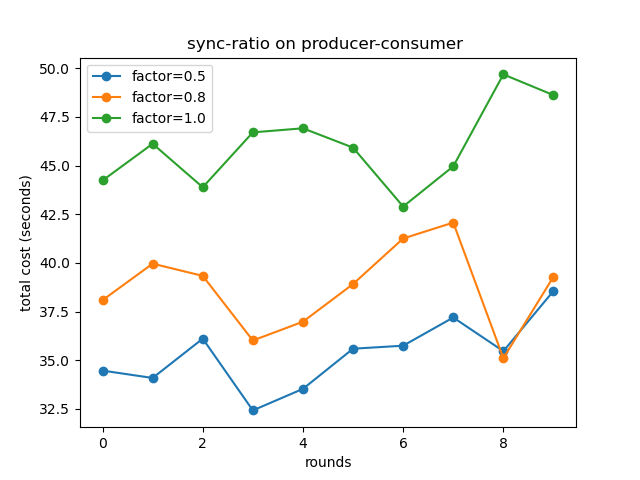
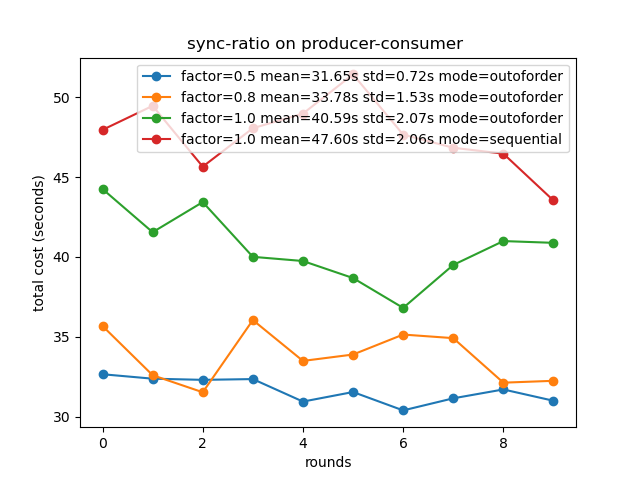
添加 README.md 文件，描述项目概述和使用说明

diff --git a/async_demo.py b/async_demo.py
@@ -116,7 +116,7 @@ class AsyncScheduler:
         comsum_n = int(self.init_size*self.factor)
         while self.running:
             # print("[消费者]：消费者开始消费")
-            # 一次性取出queue中所有任务，避免阻塞
+            # 贪婪，一次性取出queue中所有任务，避免阻塞
             while not self.queue.empty():
                 future = await self.queue.get()
                 self.queue.task_done()

diff --git a/.github/copilot-instructions.md b/.github/copilot-instructions.md
@@ -1,0 +1,94 @@
+# AI Coding Agent Instructions for Game Map Generation Project
+
+## Project Overview
+This codebase contains demos and utilities for procedural game map generation, combining Stable Diffusion concepts with 3D simulation and async processing patterns. The project focuses on performance-optimized batch processing for map generation tasks.
+
+## Architecture Components
+
+### Async Processing (`async_demo.py`)
+- **Producer-Consumer Pattern**: Uses `asyncio.Queue` with `ThreadPoolExecutor` for concurrent task processing
+- **Batch Synchronization**: Implements `AsyncScheduler` class with configurable `init_size`, `batch_size`, and `factor` parameters
+- **Performance Testing**: Includes `test_factor()` function for benchmarking different sync ratios (e.g., 0.5, 0.8, 1.0)
+- **Key Pattern**: `gauss_in_range(mu, sigma, low, high)` for constrained Gaussian random values
+
+### 3D Simulation (`genesis_world_demo.py`, `worlddemo.ipynb`)
+- **Genesis Framework**: Uses `gs.init(backend=gs.cpu)` for physics simulation
+- **Scene Building**: Creates entities like planes and MJCF robots (e.g., Franka Panda)
+- **World Generation**: Calls `gs.generate("a fantasy world with mountains and rivers")` for procedural content
+- **Simulation Loop**: Runs `scene.step()` in a loop for physics updates
+
+### Map Generation (`random_map.ipynb`)
+- **Gradient Integration**: `integrate_gradient()` function averages neighboring cells for height map smoothing
+- **Iterative Refinement**: Applies multiple integration passes (`int_num = 10`) to create natural-looking terrain
+- **Visualization**: Uses `matplotlib.pyplot.imshow()` with 'viridis' colormap for map display
+
+### Utilities (`plot_gaussian.py`)
+- **Distribution Visualization**: Plots Gaussian PDFs with variance bounds (μ ± σ, μ ± 2σ)
+- **Parameter Configuration**: Configurable `mu`, `sigma`, `low`, `high` for distribution constraints
+
+## Critical Workflows
+
+### Running Async Benchmarks
+```python
+scheduler = AsyncScheduler(init_size=20, batch_size=11, max_workers=7, total_max=93, factor=0.8)
+asyncio.run(scheduler.run(outoforder=True))
+```
+- Use `outoforder=True` for concurrent consumer processing
+- Monitor performance with saved PNG plots (`async_producer_consumer_performance.png`)
+
+### Genesis Simulation Setup
+```python
+import os
+os.environ['KMP_DUPLICATE_LIB_OK'] = 'True'
+gs.init(backend=gs.cpu)
+scene = gs.Scene(show_viewer=True)
+scene.build()
+```
+
+### Map Generation Pipeline
+```python
+gradient = np.random.random((100, 100))
+for i in range(10):
+    height_map = integrate_gradient(gradient)
+    gradient = height_map
+plot_image(height_map)
+```
+
+## Project-Specific Conventions
+
+### Async Patterns
+- **Queue Management**: Use `asyncio.Queue` with `max_workers` limit for bounded concurrency
+- **Future Wrapping**: Always wrap ThreadPoolExecutor futures with `asyncio.wrap_future()`
+- **Event Synchronization**: Use `asyncio.Event` for producer-consumer coordination
+- **Shutdown Handling**: Call `executor.shutdown(wait=True)` after processing completion
+
+### Simulation Setup
+- **Environment Variables**: Set `KMP_DUPLICATE_LIB_OK='True'` before Genesis initialization
+- **Backend Selection**: Prefer `gs.cpu` for development, `gs.gpu` for production
+- **MJCF Loading**: Reference robot models from `xml/franka_emika_panda/panda.xml`
+
+### Visualization Standards
+- **Colormaps**: Use 'viridis' for terrain maps, standard colors for distributions
+- **Plot Saving**: Save performance plots as PNG files for documentation
+- **Grid Display**: Enable `plt.grid(True)` for distribution plots
+
+### Code Style
+- **Comments**: Mix English and Chinese comments for clarity
+- **Type Hints**: Use `# type: ignore` for third-party imports like Genesis
+- **Parameter Naming**: Use descriptive names like `product_count`, `total_max`, `factor`
+
+## Dependencies & Environment
+- **Core**: `asyncio`, `numpy`, `matplotlib`
+- **Simulation**: `genesis` (custom physics engine)
+- **Execution**: Run scripts directly with `python script.py`, notebooks via Jupyter
+
+## Integration Points
+- **Stable Diffusion**: Async patterns designed for batch image generation workflows
+- **3D Rendering**: Genesis scenes can integrate generated maps as terrain
+- **Performance Monitoring**: Built-in timing and plotting for optimization analysis
+
+## Key Files to Reference
+- `async_demo.py`: Exemplifies async architecture and performance testing
+- `random_map.ipynb`: Core map generation algorithm
+- `genesis_world_demo.py`: Simulation integration patterns</content>
+<parameter name="filePath">.github/copilot-instructions.md
